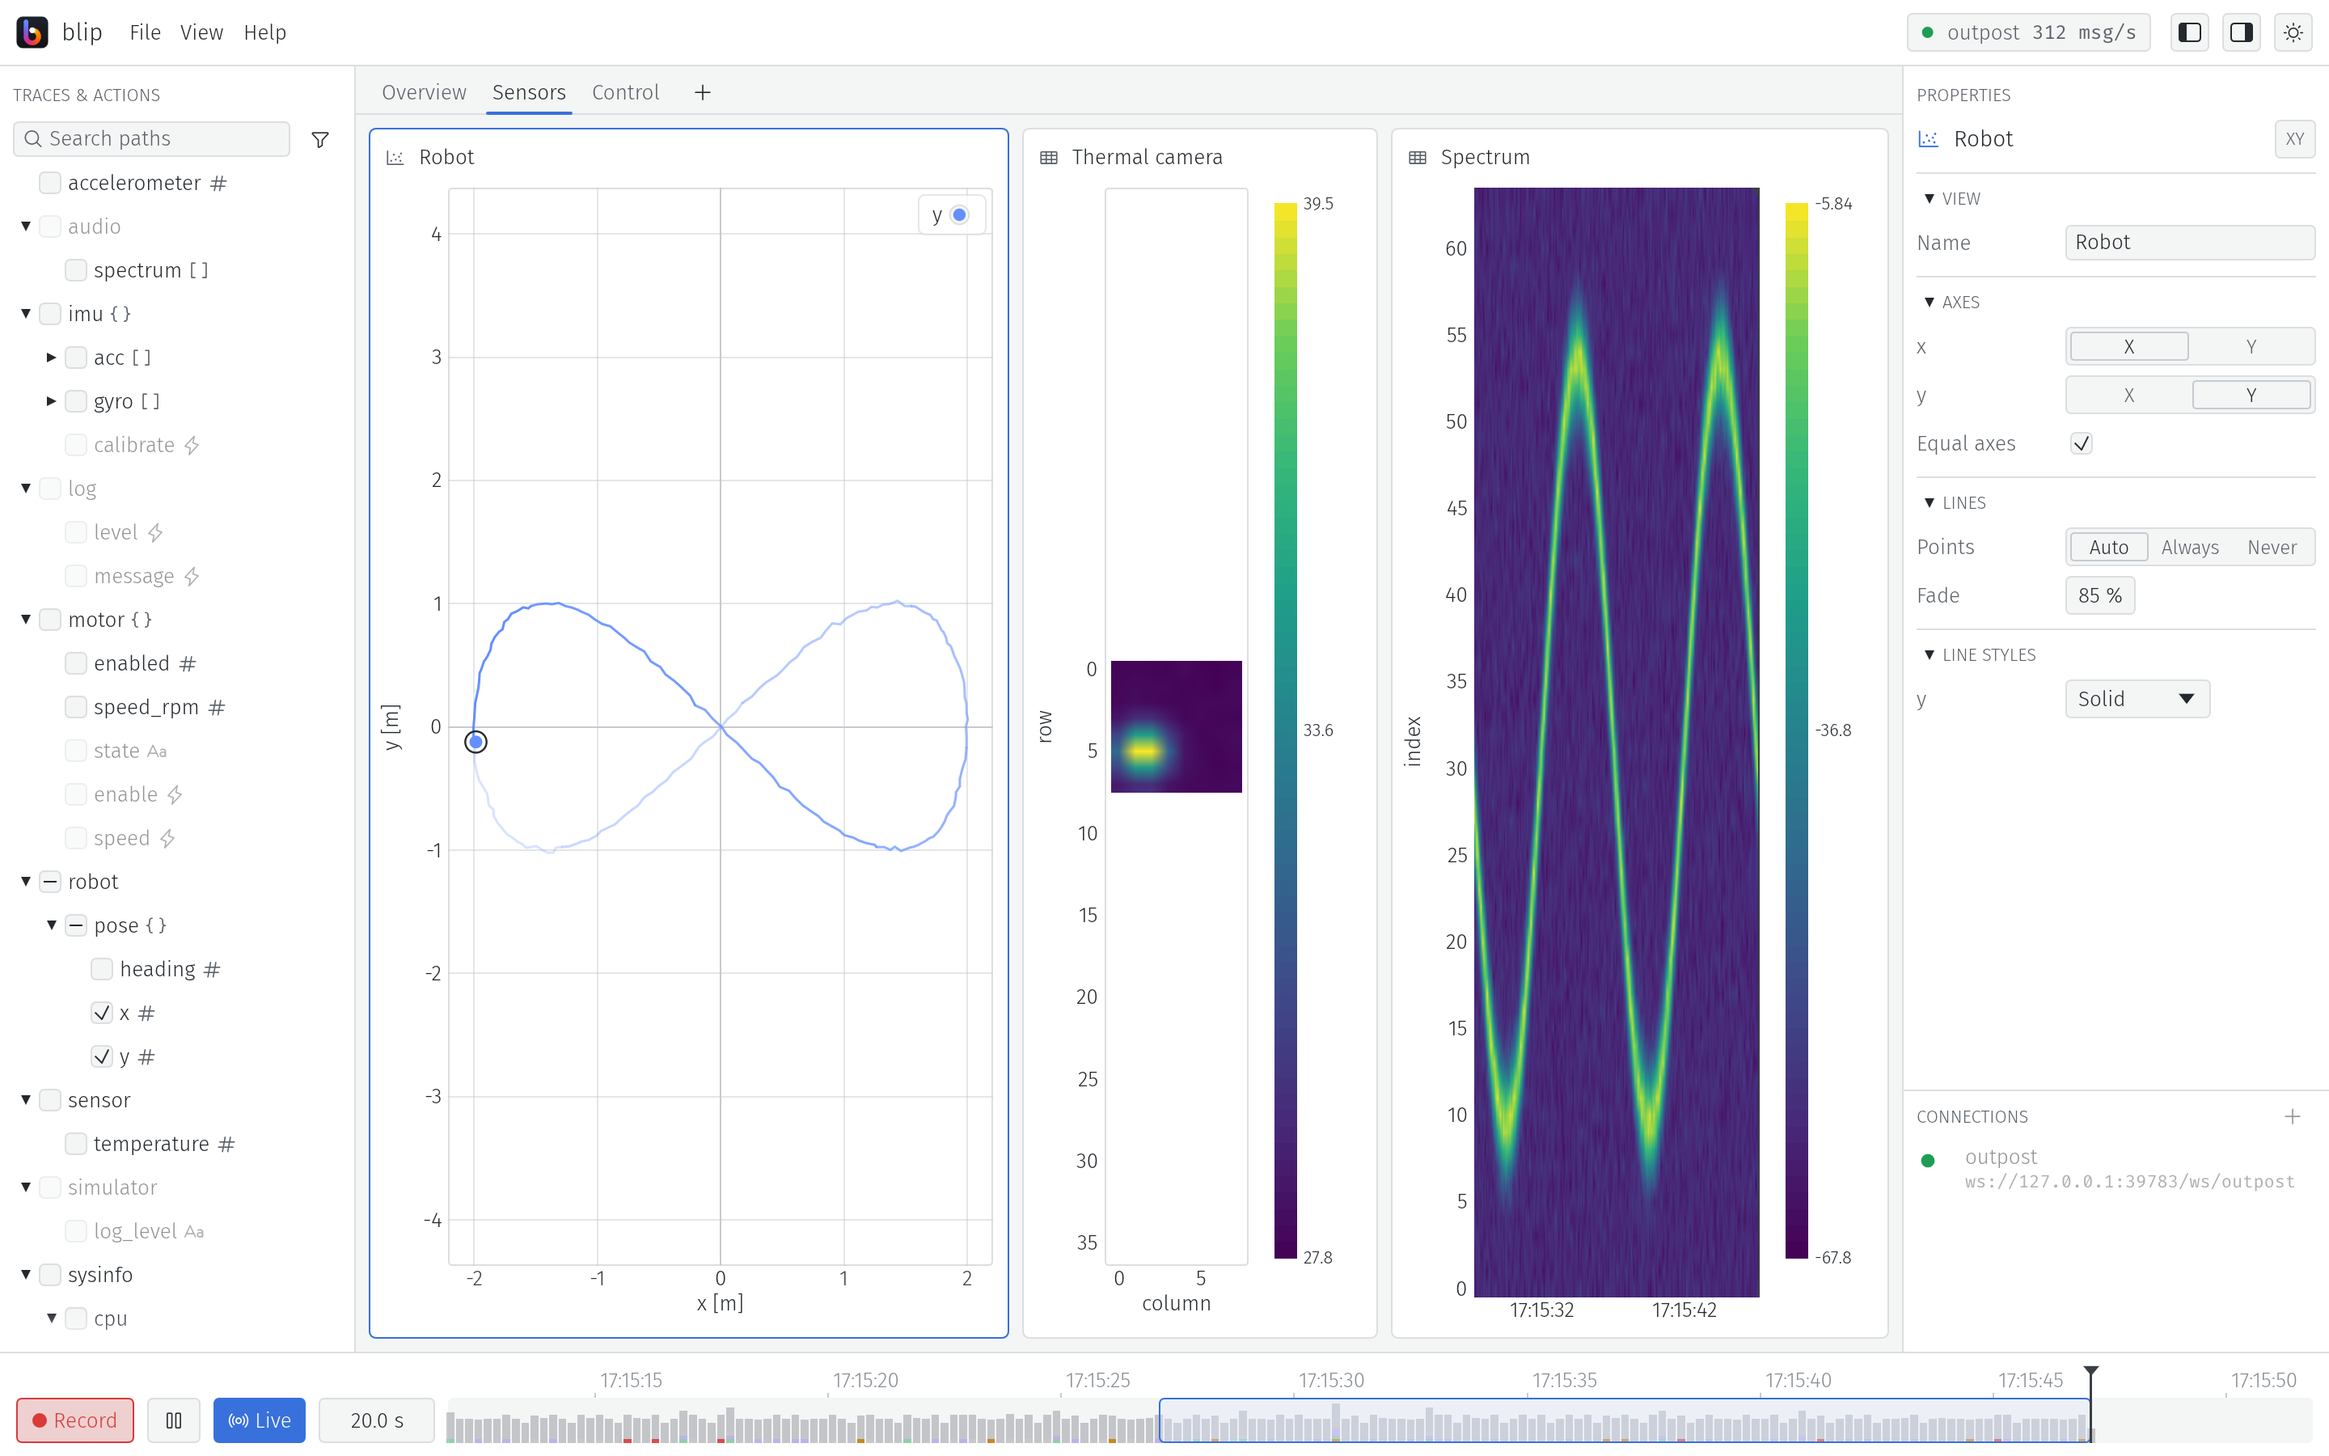
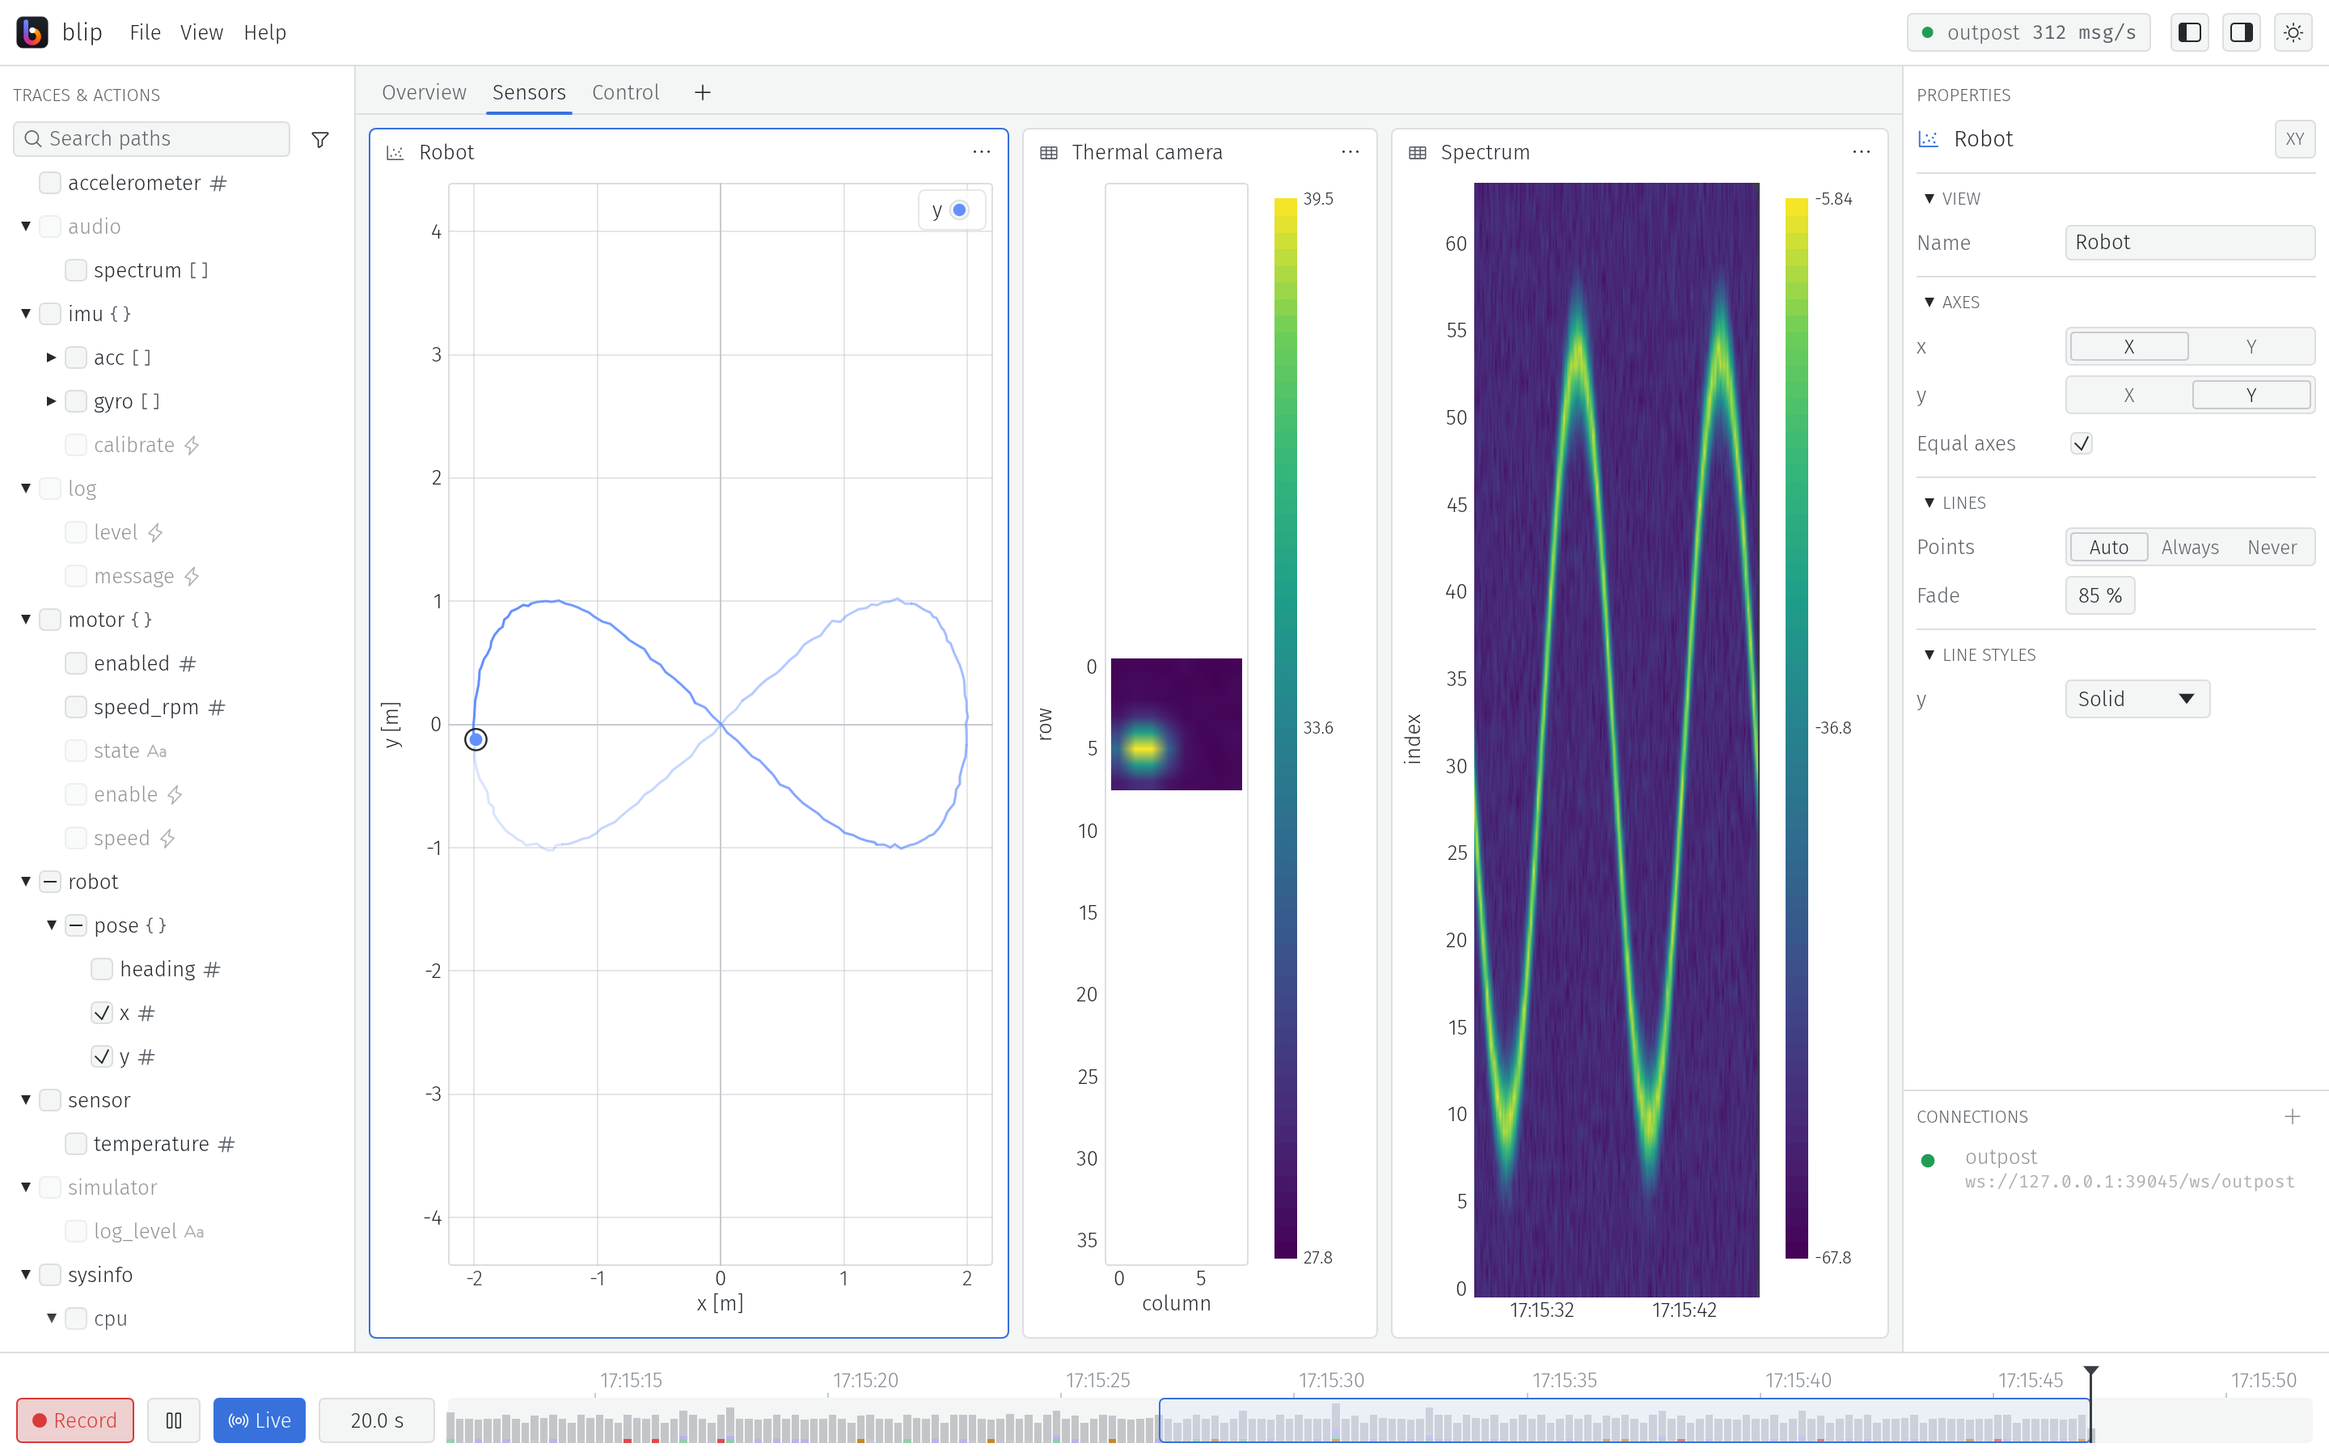
Add views from the View menu and a menu button on view titles
View › Add view adds a view of the chosen type after the selected view,
or into the open tab if the selected view is in another tab or none is
selected, or into a new tab if there is none.

The title of each view now ends with a ⋯ button that opens the same menu
as a right click: Add right, Add below, Rename and Delete, so the menu is
found without knowing about the right click. The button is centred in the
title row with the name, its dots line up with the right edge of the
content, and long names are cut short before it.

The documentation and the screenshots show both.

diff --git a/blip/src/app/layout.rs b/blip/src/app/layout.rs
@@ -271,6 +271,34 @@ impl Layout {
         view
     }
 
+    /// Adds a new view of `view_type` and selects it: after the selected view in its
+    /// group, or into the selected group, if they are shown, else into the open tab, or
+    /// into a new tab if there is none.
+    pub fn add_view(&mut self, view_type: ViewType) {
+        let shown = self.tree.active_tiles();
+        let open_tab = match self.container(self.root()) {
+            Some(Container::Tabs(tabs)) => tabs.active,
+            _ => None,
+        };
+        let anchor = (self.selected)
+            .filter(|selected| shown.contains(selected))
+            .or(open_tab.filter(|tab| self.tree.tiles.get(*tab).is_some()));
+        match anchor {
+            Some(group) if self.container(group).is_some() => {
+                self.add_view_into(group, view_type);
+            }
+            Some(view) => {
+                let new = self.new_view(view_type);
+                self.move_next_to(new, view, true);
+                self.select(new);
+            }
+            None => {
+                let tab = self.add_tab();
+                self.add_view_into(tab, view_type);
+            }
+        }
+    }
+
     /// Adds a new view of `view_type` at `side` of `target` and selects it, as if it was
     /// dropped there. Returns its id, or `None` if `target` is not in a group.
     fn add_view_beside(
@@ -708,6 +736,12 @@ const TAB_BAR_HEIGHT: f32 = 28.0;
 /// Height of the title bar of a view not shown as a tab, which moves it by drag and drop.
 const TITLE_BAR_HEIGHT: f32 = 28.0;
 
+/// Size of the menu button at the right end of the title bar of a view.
+const MENU_BUTTON_SIZE: f32 = 22.0;
+
+/// Width of the dots of the menu button, which line up with the content of the view.
+const MENU_DOTS_WIDTH: f32 = 12.0;
+
 /// The card of a view in `rect`, leaving a gap to a tab bar right above it.
 fn card_rect(rect: egui::Rect, below_tab_bar: bool) -> egui::Rect {
     if below_tab_bar {
@@ -781,38 +815,62 @@ impl egui_tiles::Behavior<View> for Behavior<'_, '_> {
                 )
                 .on_hover_cursor(egui::CursorIcon::Grab);
             bar.dnd_set_drag_payload(tile_id);
+            // the icon, the title and the menu button in a row, centred on the bar; the
+            // button's frame reaches into the margin, so that its dots line up with the
+            // content below
+            let inset = ((MENU_BUTTON_SIZE - MENU_DOTS_WIDTH) / 2.0) as i8;
             let title = egui::Frame::NONE
                 .inner_margin(egui::Margin {
                     left: 10,
-                    right: 10,
-                    top: 6,
+                    right: 10 - inset,
+                    top: ((TITLE_BAR_HEIGHT - MENU_BUTTON_SIZE) / 2.0) as i8,
                     bottom: 0,
                 })
                 .show(ui, |ui| {
-                    ui.horizontal(|ui| {
-                        ui.label(
-                            egui::RichText::new(view.view_type().icon())
-                                .color(ui.visuals().weak_text_color()),
-                        );
-                        let field_size = egui::vec2(ui.available_width(), 0.0);
-                        if self.rename_ui(ui, tile_id, field_size) {
-                            return None;
-                        }
-                        let title = egui::Label::new(egui::RichText::new(&view.name).strong())
-                            .sense(egui::Sense::click_and_drag());
-                        let title = ui
-                            .add(title)
-                            .on_hover_cursor(egui::CursorIcon::Text)
-                            .on_hover_text("Click to rename, drag to move, right-click for more");
-                        title.dnd_set_drag_payload(tile_id);
-                        if title.clicked() {
-                            *self.renaming = Some(Renaming {
-                                tile_id,
-                                name: view.name.clone(),
-                            });
-                        }
-                        ui.allocate_space(ui.available_size());
-                        Some(title)
+                    let row = egui::vec2(ui.available_width(), MENU_BUTTON_SIZE);
+                    let right_to_left = egui::Layout::right_to_left(egui::Align::Center);
+                    ui.allocate_ui_with_layout(row, right_to_left, |ui| {
+                        // little padding, so that the dots are centred in the button
+                        ui.spacing_mut().button_padding = egui::vec2(4.0, 2.0);
+                        let icon =
+                            egui::RichText::new(egui_phosphor::regular::DOTS_THREE).size(16.0);
+                        let button =
+                            egui::Button::new(icon).min_size(egui::Vec2::splat(MENU_BUTTON_SIZE));
+                        let button = theme::hover_frame(button).button(ui);
+                        egui::containers::menu::MenuButton::from_button(button)
+                            .ui(ui, |ui| tile_menu(ui, tile_id, true, &mut self.actions))
+                            .0
+                            .on_hover_text("Add a view next to this one, rename or delete it");
+                        let left_to_right = egui::Layout::left_to_right(egui::Align::Center);
+                        let rest = egui::vec2(ui.available_width(), MENU_BUTTON_SIZE);
+                        ui.allocate_ui_with_layout(rest, left_to_right, |ui| {
+                            ui.label(
+                                egui::RichText::new(view.view_type().icon())
+                                    .color(ui.visuals().weak_text_color()),
+                            );
+                            let field_size = egui::vec2(ui.available_width(), 0.0);
+                            if self.rename_ui(ui, tile_id, field_size) {
+                                return None;
+                            }
+                            let title = egui::Label::new(egui::RichText::new(&view.name).strong())
+                                .truncate()
+                                .sense(egui::Sense::click_and_drag());
+                            let title = ui
+                                .add(title)
+                                .on_hover_cursor(egui::CursorIcon::Text)
+                                .on_hover_text(
+                                    "Click to rename, drag to move, right-click for more",
+                                );
+                            title.dnd_set_drag_payload(tile_id);
+                            if title.clicked() {
+                                *self.renaming = Some(Renaming {
+                                    tile_id,
+                                    name: view.name.clone(),
+                                });
+                            }
+                            Some(title)
+                        })
+                        .inner
                     })
                     .inner
                 })
@@ -1459,6 +1517,56 @@ mod tests {
         harness.get_by_label("Tab 1").click();
         harness.run();
         assert_eq!(layout.borrow().selected, Some(tab));
+    }
+
+    #[test]
+    fn a_view_from_the_menu_bar_goes_after_the_selected_view() {
+        let (mut layout, tab, plot, logs) = default_layout();
+        layout.select(plot);
+        layout.add_view(ViewType::Table);
+        let table = children(&layout, tab)[1];
+        assert_eq!(children(&layout, tab), [plot, table, logs]);
+        assert_eq!(layout.selected, Some(table));
+    }
+
+    #[test]
+    fn a_view_from_the_menu_bar_goes_into_the_open_tab_if_the_selection_is_hidden() {
+        let (mut layout, _, plot, _) = default_layout();
+        layout.select(plot);
+        let second = layout.add_tab();
+        layout.selected = Some(plot);
+        layout.add_view(ViewType::States);
+        assert_eq!(children(&layout, second).len(), 1);
+    }
+
+    #[test]
+    fn a_view_from_the_menu_bar_without_tabs_goes_into_a_new_tab() {
+        let (mut layout, tab, _, _) = default_layout();
+        layout.remove_tile(tab);
+        layout.add_view(ViewType::Plot);
+        let tabs = children(&layout, layout.root());
+        assert_eq!(tabs.len(), 1);
+        assert_eq!(children(&layout, tabs[0]).len(), 1);
+    }
+
+    #[test]
+    fn the_menu_button_of_a_title_opens_its_menu() {
+        let (layout, tab, plot, logs) = default_layout();
+        let layout = Rc::new(RefCell::new(layout));
+        let mut harness = center_harness(layout.clone());
+        harness.run();
+        let buttons: Vec<_> = harness
+            .get_all_by_label(egui_phosphor::regular::DOTS_THREE)
+            .collect();
+        assert_eq!(buttons.len(), 2);
+        buttons[1].click();
+        harness.run();
+        harness.get_by_label_contains("Delete").click();
+        harness.run();
+
+        let layout = layout.borrow();
+        assert_eq!(children(&layout, tab), [plot]);
+        assert!(layout.view(logs).is_none());
     }
 
     #[test]

diff --git a/blip/src/app.rs b/blip/src/app.rs
@@ -309,6 +309,15 @@ impl App {
                 }
             });
             ui.menu_button("View", |ui| {
+                ui.menu_button("Add view", |ui| {
+                    for view_type in view::ViewType::ALL {
+                        let text = format!("{} {}", view_type.icon(), view_type.name());
+                        if ui.button(text).clicked() {
+                            self.layout.add_view(view_type);
+                        }
+                    }
+                });
+                ui.separator();
                 egui::gui_zoom::zoom_menu_buttons(ui);
                 ui.weak(format!("Zoom {:.0} %", ui.ctx().zoom_factor() * 100.0));
             });

diff --git a/doc/source/usage/blip/layout.rst b/doc/source/usage/blip/layout.rst
@@ -12,9 +12,13 @@ Adding views and tabs
 Click **+** after the tabs to add a tab. An empty tab shows the view types
 (see :doc:`views`); click one to add a view of that type.
 
-To add a view next to another, right-click the title of that view (or its tab,
-if it is shown as a tab) and choose **Add right** or **Add below** and the view
-type. The new view goes there as if it was dragged to that side, see below.
+To add a view next to another, click **⋯** at the right of the title of that
+view, or right-click the title (or its tab, if it is shown as a tab), and
+choose **Add right** or **Add below** and the view type. The new view goes
+there as if it was dragged to that side, see below.
+
+**View › Add view** adds a view after the selected view, or into the open tab
+if the selected view is in another tab.
 
 Selecting
 ---------
@@ -45,7 +49,8 @@ Renaming and deleting
 Click the title of a view, or the open tab, to rename it, or edit the **Name**
 in the properties. :kbd:`Enter` keeps the new name, :kbd:`Escape` drops it.
 
-Right-click the title of a view, or a tab, to **Rename** or **Delete** it.
+The same menu, from **⋯** or a right click on the title of a view, or a right
+click on a tab, has **Rename** and **Delete**.
 Deleting a tab deletes the views in it. Deleting the last view of a tab keeps
 the tab, to add other views to it.
 

diff --git a/doc/source/usage/blip/views.rst b/doc/source/usage/blip/views.rst
@@ -2,10 +2,10 @@ Views
 =====
 
 A view shows the traces checked for it in the traces panel (see
-:doc:`traces`), or the logs, or a form of actions. Add views in an empty tab
-or by right-clicking the title of a view, see :doc:`layout`; the settings of
-the selected view are in the properties panel on the right and are saved with
-the layout.
+:doc:`traces`), or the logs, or a form of actions. Add views in an empty tab,
+with **⋯** on the title of a view or with **View › Add view**, see
+:doc:`layout`; the settings of the selected view are in the properties panel
+on the right and are saved with the layout.
 
 .. list-table::
    :header-rows: 1

diff --git a/doc/source/usage/blip/index.rst b/doc/source/usage/blip/index.rst
@@ -43,8 +43,8 @@ The window
    :doc:`connecting`.
 
 ⑤ Views
-   The plots, tables, logs and other views, in tabs. Right-click the title of
-   a view to add a view next to it or to delete it. See :doc:`layout`.
+   The plots, tables, logs and other views, in tabs. **⋯** on the title of a
+   view adds a view next to it or deletes it. See :doc:`layout`.
    Errors and warnings, e.g. when connecting fails, show as notices in the
    bottom right corner of this area.
 

diff --git a/doc/source/usage/blip/files.rst b/doc/source/usage/blip/files.rst
@@ -39,7 +39,10 @@ and the outpost replays them. Their format is described in
 View menu
 ---------
 
-Zooms the whole UI in and out, also with :kbd:`Ctrl` and :kbd:`+`, :kbd:`-`
+**Add view** adds a view of the chosen type after the selected view, see
+:doc:`layout`.
+
+The zoom buttons zoom the whole UI in and out, also with :kbd:`Ctrl` and :kbd:`+`, :kbd:`-`
 and :kbd:`0` in the native app. In the browser, these keys zoom the page. The
 zoom is kept across restarts.
 

diff --git a/doc/source/usage/blip/reference.rst b/doc/source/usage/blip/reference.rst
@@ -88,8 +88,10 @@ Center
      - rename (:kbd:`Enter` keeps, :kbd:`Escape` drops)
    * - click the open tab
      - select and rename it
-   * - right-click a title or tab
+   * - **⋯** on a title, right-click a title or tab
      - add a view right or below, rename, delete
+   * - **View › Add view**
+     - add a view after the selected one
    * - click a view type in an empty tab
      - add a view of that type
    * - **+** after the tabs
